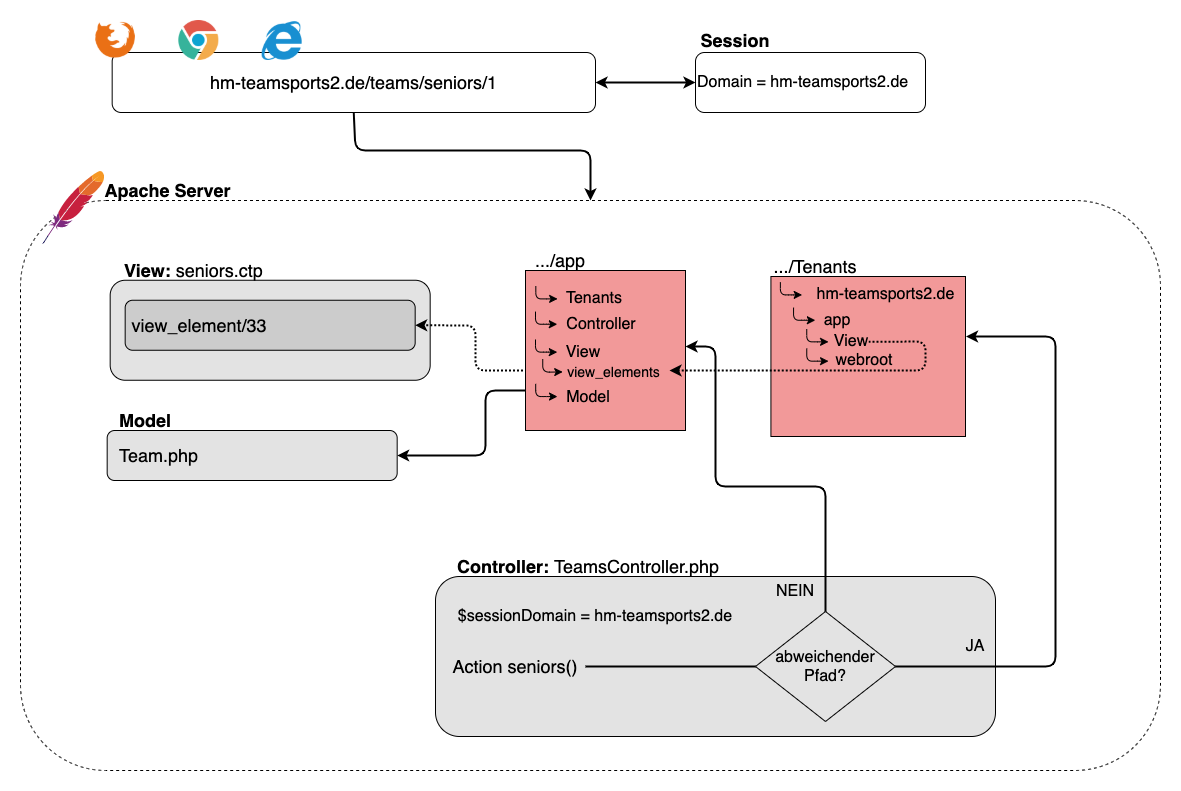
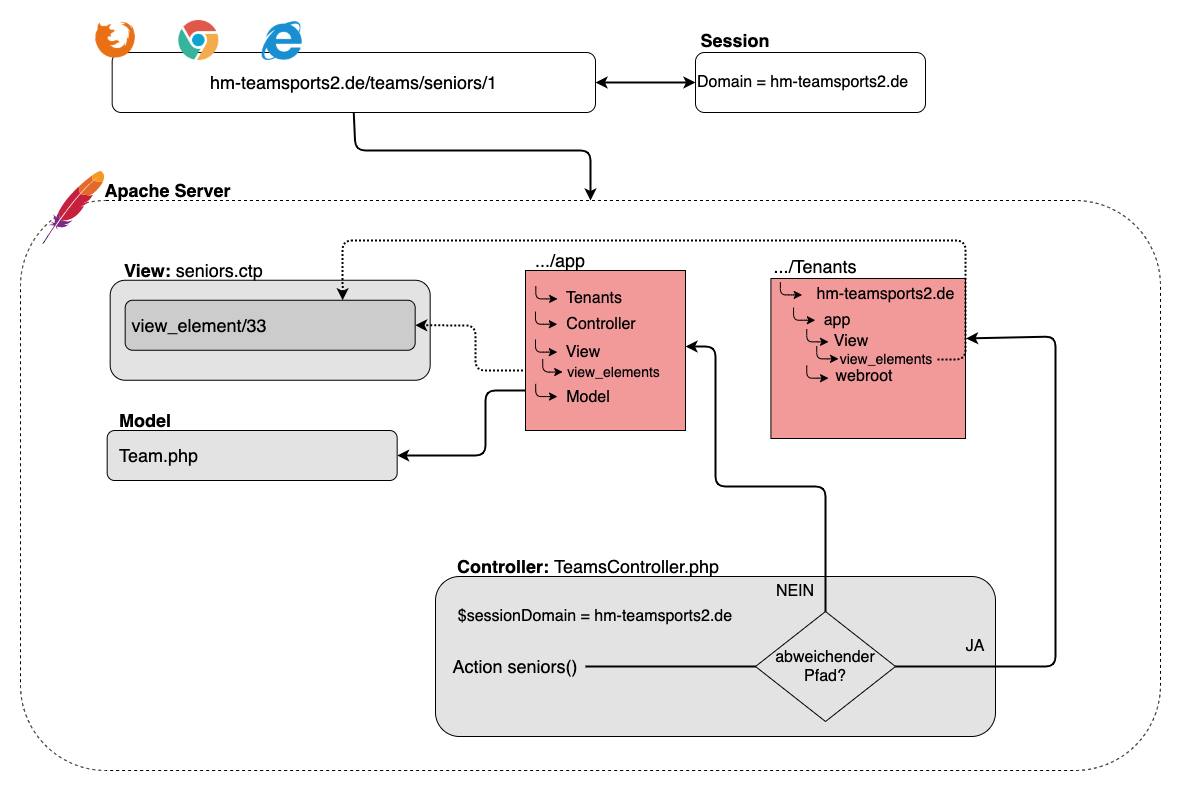
added content

Changed region(s): [[0.6706, 0.4248, 0.8535, 0.4855], [0.6706, 0.5461, 0.823, 0.5765], [0.6706, 0.3338, 0.823, 0.3641]]

diff --git a/source/09_praktische_umsetzung.md b/source/09_praktische_umsetzung.md
@@ -1,6 +1,6 @@
 # Praktische Umsetzung
 
-Das Kapitel der praktischen Umsetzung zeigt in diesem Fall eine theoretische Annäherung, wie TeamSports2 in eine Multi-Tenant Architektur überführt werden kann, welche Stellen im System bei der Migration kritisch umzusetzen sind und wie eine praktische Herangehensweise an die Migration aussehen kann.
+Das Kapitel der praktischen Umsetzung zeigt in diesem Fall eine theoretische Annäherung auf, wie TeamSports2 in eine Multi-Tenant Architektur überführt werden kann, welche praktische Herangehensweise für die Migration verwendet wurde.
 Ursprünglich war geplant, einen Prototypen für eine Multi-Tenant Archtitektur mit TeamSports2 zu entwickeln. Dabei sollten zwei Instanzen in eine Multi-Tenant Architektur migriert werden. Nach Beginn der Umsetzung wurde allerdings klar, dass dies für diese Arbeit, ein zu umfangreiches Unterfangen ist. Die Komplexität des Systems in den verschiedenen Models, Views und Controllern sowie das Datenbankmodell ließen eine Migration in der vorgegebenen Zeit nicht zu. Daraufhin wurde ein weiterer Versuch unternommen, indem ein kleiner Teil der Komponenten aus dem bestehenden System herausgelöst wurde um damit eine Multi-Tenant Architektur zu erreichen. Auch dieser Versuch scheiterte, da die Instanzen, ohne die fehlenden Komponenten und durch die bestehenden Abhängigkeiten nicht mehr funktioniert hätten. 
 
 ## Vorgehensweise
@@ -74,22 +74,25 @@ WHERE name= 'base_url' AND value= 'domain'
 
 ## Neue Architektur
 
-Um von den Tenant, welcher auf die Anwendung zugreifen möchte, eindeutig identifizieren zu können soll die Domain in Verbindung mit der tenantId genutzt werden. Beim ersten Aufruf der Seite wird die Domain der aktuellen Session gespeichert und ein Request an die Settings Tabelle gesendet. In dem Request ist dann die URL der Seite enhalten und es wird in der Settings Tabelle nach der passenden URL gesucht. Ist diese gefunden, kann die tenantId wieder zurück an die Session geschickt werden. Während der gesamten Session bleibt die tenantId gespeichert um nicht bei jedem Neuaufruf einer View der Seite eine Datenbankabfrage senden zu müssen. 
+Um den Tenant, welcher auf die Anwendung zugreifen möchte, eindeutig identifizieren zu können soll die Domain in Verbindung mit der tenantId genutzt werden. Beim ersten Aufruf der Seite wird die Domain der aktuellen Session gespeichert und ein Request an die Settings Tabelle gesendet. In dem Request ist dann die URL der Seite enhalten und es wird in der Settings Tabelle nach der passenden URL gesucht. Ist diese gefunden, kann die tenantId wieder zurück an die Session geschickt werden. Während der gesamten Session bleibt die tenantId gespeichert um nicht bei jedem Neuaufruf einer View der Seite eine Datenbankabfrage senden zu müssen. 
 Über die von CakePHP bereitgestellte Session-Component können die Einstellungen für jede Session sowohl allgemein, als auch in jedem Controller extra gesetzt werden. Für jede Session wird von CakePHP eine Session-ID vergeben, worunter dann für die Gültigkeit der Session auch die tenantId zu finden ist. 
+Die aus der Session stammende URL soll zudem auch für die Zuordnung der richtigen View zum Controller dienen. 
+Nahezu der gesamte Code liegt mit der neuen Architektur nicht mehr in jeder einzelnen Instanz, sondern zentral auf dem Server. Die Instanz greift darauf zu und ruft im Controller die jeweilige Action auf. Je nachdem ob es sich um eine, für alle Instanzen gültige oder individuelle View handelt, die durch die Action aufgerufen werden soll, wird der Pfad für die View über die Action angepasst.
+Wird eine allgemeine View angesprochen dann kann auf den zentralen View Ordner, welcher wiederum im App Ordner liegt, zugegriffen werden. Handelt es sich um eine individuelle View der Instanz muss der Pfad zu der View in der Action explizit neu gesetzt werden. Des Setzen des neuen View Pfades in der Action muss so nur bei den Actions geschehen, wo die View individueller Natur ist. Weitere Abfragen, um auf eine allgemeine View zu prüfen, sind im Controller nicht weiter notwendig. Die aus der Session stammende Domain der Instanz wird im Controller übergeben und als Parameter in dem Pfad, welcher zur View der Action führt, gesetzt. 
 
+\pagebreak
 
-![](source/figures/TS2_AusschnittDB-Modell_MultiTenantTS2.png)
+```
+$sessionDomain = 'hm-teamsports2.de';
+
+function seniors ($departmendId = null) {
+    $this->viewPath = /Tenants/$sessionDomain/app/View;
+}
+```
+Somit ruft die seniors Action nun die passende View im zugehörigen Ordner der Instanz und nicht mehr im allgemeingültigen Ordner auf. Die Bennenung des Ordners des Tenants ist serverseitig immer gleich zur Domain der jeweiligen Instanz. Damit die in den Views der Tenants bestehenden Verweise auf die View Elements weiterhin gültig sind, wird im View Ordner der Instanz ebenso ein view_elements Ordner erstellt. Dieser stellt einen Symlink zum zentralen Pfad der View Elements auf dem Server dar. Um dem Fall vorzubeugen, dass auch allgemeingültige Views Elemente haben können, wurde im View Ordner der App ebenso ein Symlink zu den View Elements erstellt. Da die Models von den jeweiligen Controllern aufgerufen werden  und nicht vom Tenant abhängig sind, können diese im allgemeinen App Ordner verbleiben und müssen nicht weiter modifiziert werden.
+Wie die Mulit-Tenant Architektur demnach aussehen kann, zeigt nachfolgende Abbildung.
+
+![](source/figures/MultiTenantTS2.png)
 Abbildung 13: Multi-Tenant Architektur TeamSports2
-
-
-
-
-
-
-Die Models sowie Controller können von jeder Instanz, unabhängig der tenantId aufgerufen. Auch in der jetzigen Architektur greifen alle Instanzen auf einem Server auf die gleichen Models und Controller zu. 
-
-
-
-
 
 

diff --git a/source/04_inhaltsverzeichnis.md b/source/04_inhaltsverzeichnis.md
@@ -2,6 +2,8 @@
 
 \rhead{}
 
+\vspace*{+1.0cm}
+
 \tableofcontents
 
 \newpage
